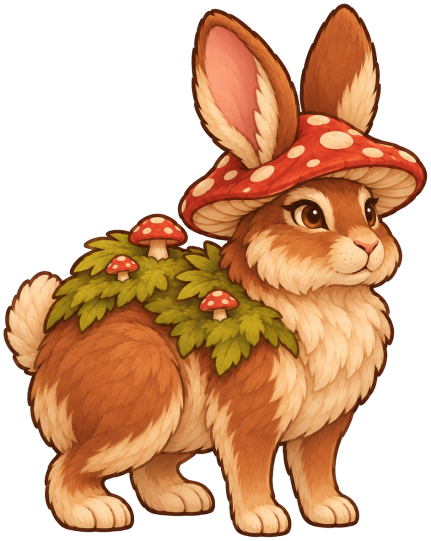
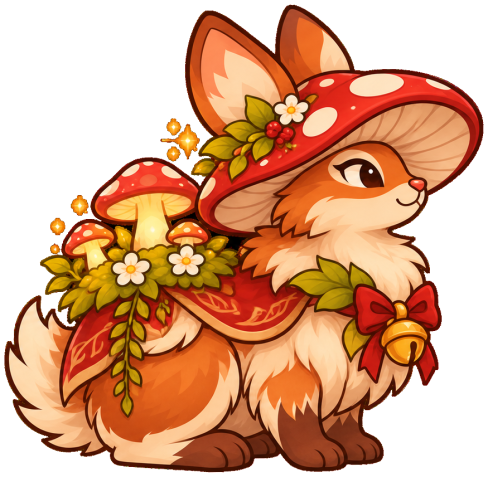
Champignon : les dessins du propriétaire, premier stade et évolution
Le Champignon des bois et son évolution à l'affection 30 (Roi des
sous-bois) sont remplacés par la planche que le propriétaire a fournie
le 7 novembre (« lapin champignon enchanté »), sur quatre pattes, de
trois-quarts vers la droite. La planche sur fond noir est coupée en deux
à son milieu vide, puis détourée (fond noir, tolérance 40) ; l'ancienne
graine de détourage entre les petits champignons est retirée. Même
surface à l'écran qu'avant : 54,2 de large au premier stade, 57,6 pour
l'évolution avant son agrandissement. Toque et bavoir de cuisine
replacés et vérifiés en capture.

diff --git a/src/config/species.ts b/src/config/species.ts
@@ -77,7 +77,7 @@ const REGISTRY = [
   {id: 'fantome', name: 'Fantôme', description: 'Un lapin caché sous un drap blanc, aux oreilles et aux pattes vert fluo, dont le bout de la truffe dépasse.', types: ['vol', 'paille'], rarity: 'rare', acquisition: [{kind: 'recipe', guaranteeEligible: true, requiredTypes: ['vol', 'paille'], minAffection: 2}], art: {kind: 'static-sprite', file: 'assets/rabbits/fantome/fantome-v1.png', texture: 'rabbit-fantome-original-v1', width: 376, height: 460, worldWidth: 51, groundY: 12, preloadOrder: 43}, progression: {unlockLevel: 1}},
   {id: 'bouyoyo', name: 'Bouyoyo', description: 'Un lapin bouillotte en peluche violette, avec un bouchon blanc sur la tête et deux petites ailes de feutrine.', types: ['feu', 'neige'], rarity: 'rare', acquisition: [{kind: 'recipe', guaranteeEligible: true, requiredTypes: ['feu', 'neige'], minAffection: 2}], art: {kind: 'static-sprite', file: 'assets/rabbits/bouyoyo/bouyoyo-v1.png', texture: 'rabbit-bouyoyo-original-v1', width: 325, height: 466, worldWidth: 44, groundY: 12, preloadOrder: 44}, progression: {unlockLevel: 1}},
   {id: 'nuage', name: 'Nuage', description: 'Un petit lapin tout rond et duveteux comme un nuage, aux reflets bleu ciel et lilas.', types: ['vol', 'neige'], rarity: 'rare', acquisition: [{kind: 'recipe', guaranteeEligible: true, requiredTypes: ['vol', 'neige'], minAffection: 2}], art: {kind: 'static-sprite', file: 'assets/rabbits/nuage/nuage-v1.png', texture: 'rabbit-nuage-original-v1', width: 376, height: 468, worldWidth: 51, groundY: 12, preloadOrder: 45}, progression: {unlockLevel: 1}},
-  {id: 'champignon', name: 'Champignon des bois', description: 'Un lapin brun des bois, coiffé d’un chapeau de champignon rouge à pois, avec de la mousse sur le dos.', types: ['paille', 'metal'], rarity: 'rare', acquisition: [{kind: 'recipe', guaranteeEligible: true, requiredTypes: ['paille', 'metal'], minAffection: 2}], art: {kind: 'static-sprite', file: 'assets/rabbits/champignon/champignon-v1.png', texture: 'rabbit-champignon-original-v1', width: 301, height: 583, worldWidth: 40.8, groundY: 12, preloadOrder: 46}, progression: {unlockLevel: 1}},
+  {id: 'champignon', name: 'Champignon des bois', description: 'Un lapin brun des bois, coiffé d’un chapeau de champignon rouge à pois, avec de la mousse sur le dos.', types: ['paille', 'metal'], rarity: 'rare', acquisition: [{kind: 'recipe', guaranteeEligible: true, requiredTypes: ['paille', 'metal'], minAffection: 2}], art: {kind: 'static-sprite', file: 'assets/rabbits/champignon/champignon-v1.png', texture: 'rabbit-champignon-original-v1', width: 400, height: 439, worldWidth: 54.2, groundY: 12, preloadOrder: 46}, progression: {unlockLevel: 1}},
   {id: 'dadi', name: 'Dadi', description: 'Un lapin blanc à casquette rouge, avec une chaîne et des baskets.', types: ['feu', 'metal'], rarity: 'epic', acquisition: [{kind: 'recipe', knowledgePrice: 450, requiredTypes: ['feu', 'metal'], minAffection: 6, probability: 10}], art: {kind: 'static-sprite', file: 'assets/rabbits/dadi/dadi-v1.png', texture: 'rabbit-dadi-original-v1', width: 262, height: 364, worldWidth: 42, groundY: 13, preloadOrder: 26}, progression: {unlockLevel: 11}},
   {id: 'maxou', name: 'Maxou', description: 'Un lapin dauphin gris, avec un aileron et une queue de dauphin.', types: ['neige', 'vol'], rarity: 'epic', acquisition: [{kind: 'recipe', knowledgePrice: 450, requiredTypes: ['neige', 'vol'], minAffection: 6, probability: 10}], art: {kind: 'static-sprite', file: 'assets/rabbits/maxou/maxou-v1.png', texture: 'rabbit-maxou-original-v1', width: 461, height: 414, worldWidth: 56, groundY: 12, preloadOrder: 27}, progression: {unlockLevel: 11}},
   {id: 'orange', name: 'Orange', description: 'Une petite lapine blanche à la robe orange.', types: ['paille', 'neige'], rarity: 'epic', acquisition: [{kind: 'recipe', knowledgePrice: 450, requiredTypes: ['paille', 'neige'], minAffection: 6, probability: 10}], art: {kind: 'static-sprite', file: 'assets/rabbits/orange/orange-v1.png', texture: 'rabbit-orange-original-v1', width: 339, height: 430, worldWidth: 46, groundY: 12, preloadOrder: 31}, progression: {unlockLevel: 11}},

diff --git a/tests/rabbit-art-fixtures.ts b/tests/rabbit-art-fixtures.ts
@@ -59,7 +59,7 @@ export const NEW_RARES: readonly RareSheet[] = [
[5 lines of base64/hex data omitted]
 ];
 /** Epics and Legendaries added on 25 October 2026, after the Rares in catalogue order: types, rarity, exact recipe and art, written by hand. */
 export interface SpecialSheet {id: string; name: string; types: readonly string[]; event?: 'christmas'; rarity: 'epic' | 'legendary' | 'mythic'; recipe: {requiredTypes?: readonly [string, string]; parents?: readonly [string, string]; parentRarity?: 'legendary'; minAffection: number; probability: number; knowledgePrice?: number}; unlockLevel: number; art: ArtExpectation; foot?: number; sourceSha256?: string}

diff --git a/src/config/cuisineAnchors.ts b/src/config/cuisineAnchors.ts
@@ -65,7 +65,7 @@ export const CUISINE_ANCHORS: Partial<Record<SpeciesId, CuisineAnchors>> = {
   fantome: a([.55, .1, .36, 2], [.55, .45, .3], [.56, .3, .3]),
   bouyoyo: a([.6, .12, .36, 4], [.6, .48, .3], [.62, .32, .3]),
   nuage: a([.62, .12, .36, 4], [.64, .48, .3], [.66, .32, .3]),
-  champignon: a([.55, .2, .38, 2], [.58, .5, .3], [.58, .34, .3]),
+  champignon: a([.62, .24, .3, 8], [.77, .58, .28], [.77, .47, .26]),
   'lapin-de-sulli': a([.5, .12, .4, 0], [.5, .6, .34], [.52, .4, .34]),
   'pain-epice': a([.74, .3, .26, 6], [.76, .62, .26], [.8, .41, .24]),
   'flocon-cristal': a([.62, .14, .34, 4], [.64, .45, .28], [.66, .3, .28]),
@@ -118,7 +118,7 @@ export const EVOLVED_CUISINE_ANCHORS: Partial<Record<SpeciesId, CuisineAnchors>>
   fantome: a([.45, .19, .28, -2], [.42, .34, .26], [.42, .24, .26]),
   bouyoyo: a([.76, .31, .22, 6], [.85, .55, .2], [.87, .405, .18]),
   nuage: a([.3, .2, .3, -4], [.3, .4, .3], [.28, .29, .24]),
-  champignon: a([.71, .23, .3, 4], [.8, .5, .22], [.8, .39, .2]),
+  champignon: a([.73, .19, .26, 6], [.8, .5, .24], [.78, .375, .22]),
   'lapin-de-sulli': a([.42, .16, .34, -2], [.38, .4, .34], [.3, .28, .3]),
   'pain-epice': a([.81, .3, .26, 2], [.84, .535, .22], [.86, .405, .18]),
   'flocon-cristal': a([.62, .14, .34, 4], [.64, .45, .28], [.66, .3, .28]),

diff --git a/src/config/evolvedArt.ts b/src/config/evolvedArt.ts
@@ -105,7 +105,7 @@ export const EVOLVED_ART: readonly EvolvedSprite[] = [
   {id: 'pain-epice', name: 'Chef pâtissier', file: 'assets/rabbits/pain-epice/pain-epice-v2.png', texture: 'rabbit-pain-epice-evolved-v2', width: 391, height: 503, worldWidth: 46.1, groundY: 12},
   {id: 'flocon-cristal', name: 'Couronne de givre', file: 'assets/rabbits/flocon-cristal/flocon-cristal-v2.png', texture: 'rabbit-flocon-cristal-evolved-v2', width: 356, height: 531, worldWidth: 42, groundY: 12},
   {id: 'nuage', name: 'Nuage d’arc-en-ciel', file: 'assets/rabbits/nuage/nuage-v2.png', texture: 'rabbit-nuage-evolved-v2', width: 405, height: 575, worldWidth: 47.7, groundY: 12, facing: 'left'},
-  {id: 'champignon', name: 'Roi des sous-bois', file: 'assets/rabbits/champignon/champignon-v2.png', texture: 'rabbit-champignon-evolved-v2', width: 431, height: 541, worldWidth: 50.8, groundY: 12},
+  {id: 'champignon', name: 'Roi des sous-bois', file: 'assets/rabbits/champignon/champignon-v2.png', texture: 'rabbit-champignon-evolved-v2', width: 488, height: 477, worldWidth: 57.6, groundY: 12},
 ];
 export const evolvedSprite = (species: SpeciesId): EvolvedSprite | undefined => EVOLVED_ART.find(art => art.id === species);
 export const hasEvolvedArt = (species: SpeciesId): boolean => !!evolvedSprite(species);
